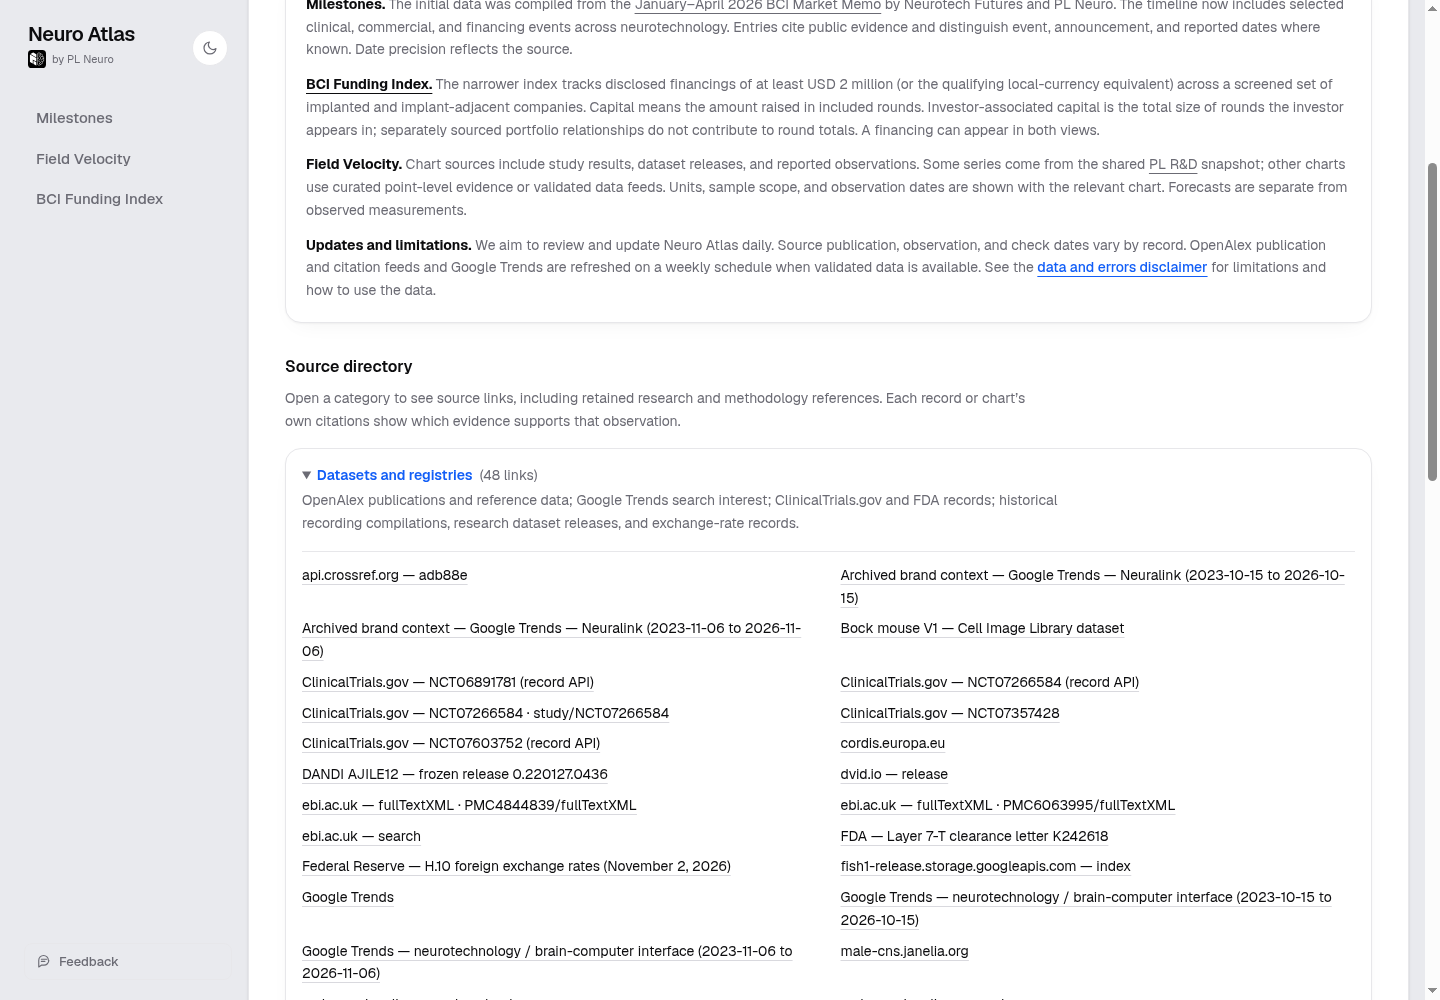
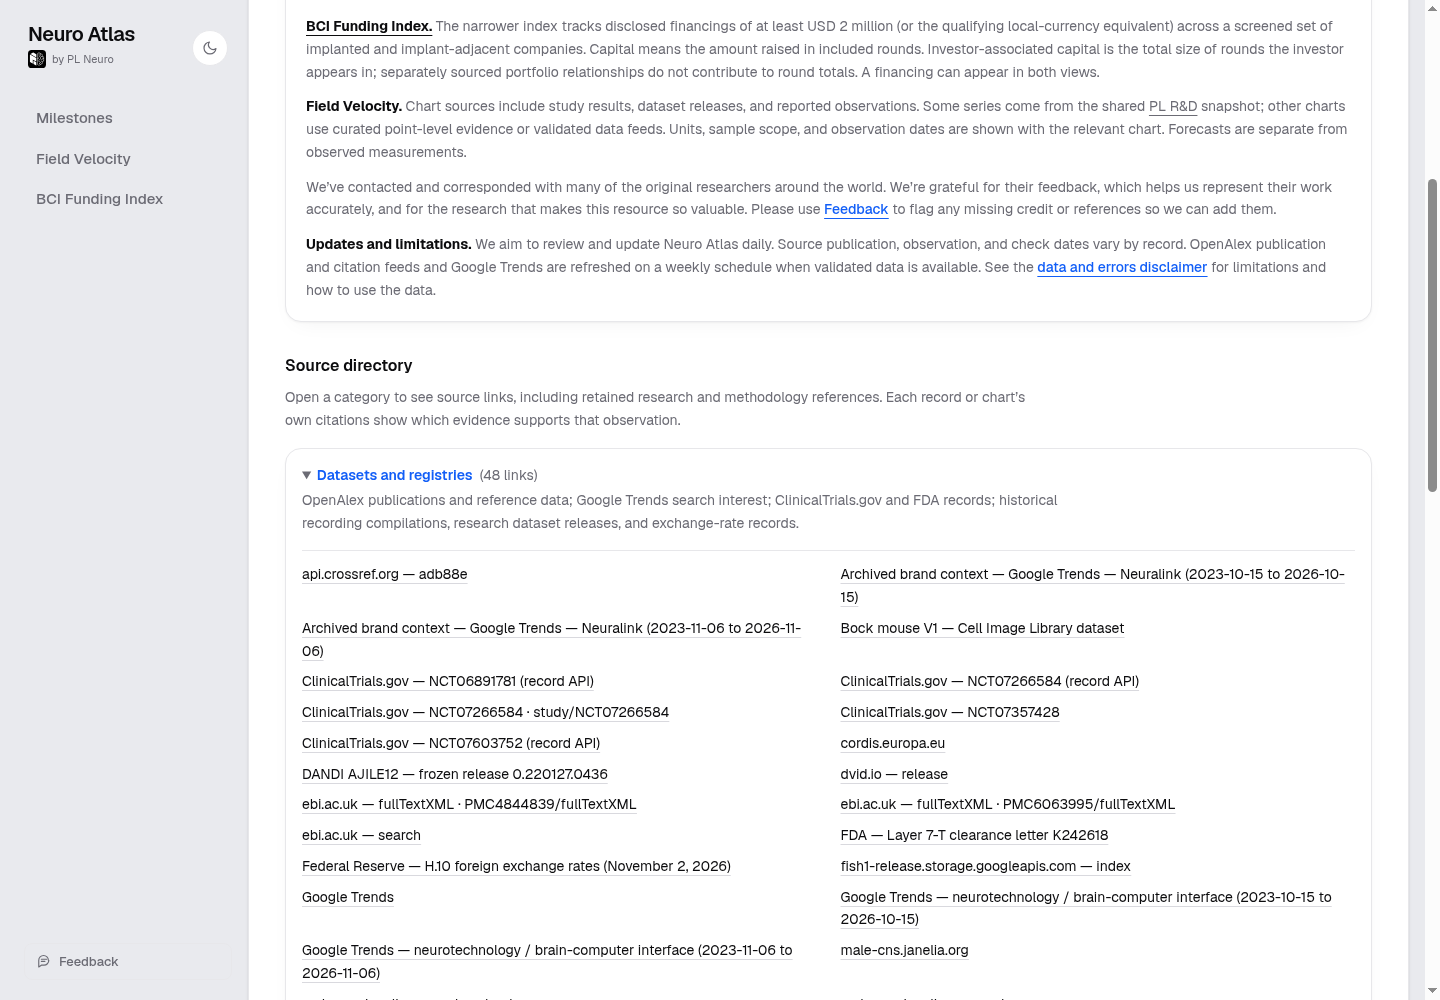
docs(qa): refresh researcher-credit browser evidence

diff --git a/docs/qa/sources-methodology-20261119/README.md b/docs/qa/sources-methodology-20261119/README.md
@@ -6,10 +6,10 @@ Rebuild the existing `/neuro-atlas/methodology` page and relocate its discovery 
 
 ## Runtime revision
 
-The screenshots were captured from the local production build of `34e31522b1746467f5d8d63b2a8572488c9f8058`, built with `NEXT_PUBLIC_BASE_PATH=/neuro-atlas`, the public PL Neuro origin, and preview noindex. Later test/evidence-only commits retain identical runtime sources and assets.
+The screenshots were captured from the local production build of `471e5497b58b7f70e6fba7dcfbcca32779688115`, built with `NEXT_PUBLIC_BASE_PATH=/neuro-atlas`, the public PL Neuro origin, and preview noindex. Later test/evidence-only commits retain identical runtime sources and assets.
 
-- Build ID: `rcMH9eVPXwnKbXJjRZ7LR`.
[1 lines of base64/hex data omitted]
+- Build ID: `78EGiHWEB3dLSMdExMtlF`.
[1 lines of base64/hex data omitted]
 - Served page matched its built HTML exactly; all 13 referenced static JS/CSS/preload assets matched build bytes.
 
 ## Native browser checks
@@ -17,6 +17,7 @@ The screenshots were captured from the local production build of `34e31522b17464
 Actual Chrome, viewport-emulated pointer/keyboard input at 1440, 768, 390, and 320 pixels, light and dark:
 
 - Short title with no subtitle; Principles, Status legend, and Changelog removed.
+- Researcher correspondence/accuracy acknowledgment, thanks for the underlying research, and missing-credit invitation linked to the existing contribution/Feedback action. Three cited studies use verified full titles in the directory.
 - Exact href/label equality for all 587 catalog links; six expandable source categories.
 - Four footer link groups; Neurotech Futures, Neurofounders, and Learn more in the sources group.
 - Logo and “by PL Neuro” attribution; preserved disclaimer and legal links.
@@ -36,3 +37,10 @@ These are local production-build captures, not screenshots of a hosted or live r
 - `footer-390-dark.png`: responsive footer.
 - `sources-expanded.png`: expanded source directory.
 - `home-1440.png`: remaining primary exploration tiles after source relocation.
+
+- `source-directory-overview.png`: all six categories and contribution guidance.
+- `researcher-acknowledgment.png`: Field Velocity credit and missing-reference invitation.
+
+## Test receipts
+
+The complete 1,497-case run had 1,496 passing cases and one obsolete requirement that methodology keep its old shared hero. The test-only correction retains shared-hero coverage for the three data plates and adds the requested compact title/no-subtitle contract; its isolated replay passed. A second all-files-except-unchanged-chart-sharing run had 1,472 passing cases and one untouched analytics-history assertion failure; that assertion passed in the first run and the isolated replay. Neither failed aggregate is relabeled as green. Every affected page/footer/source/header contract passed again after the final researcher copy. Production build, typecheck, changed-file lint, and the final native production-build replay passed. This update changes no analytics or chart renderer/export implementation.
